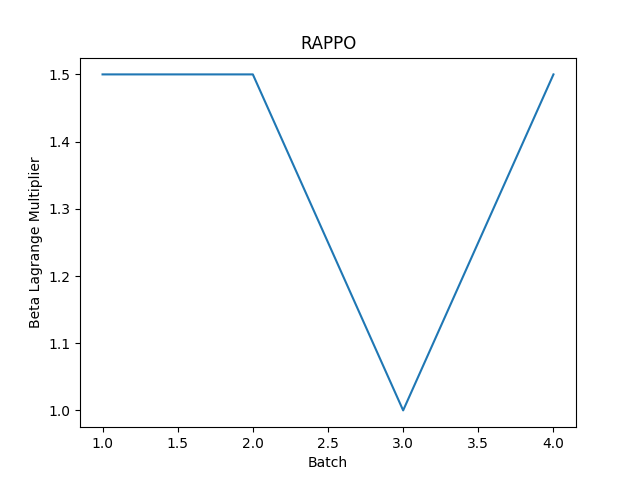
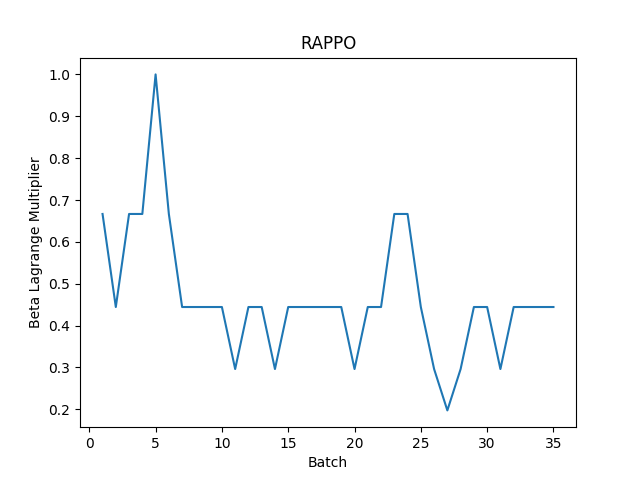
Redefined CVaR

diff --git a/src/policy.py b/src/policy.py
@@ -20,7 +20,7 @@ class Policy(object):
         """
         self.beta = 1.0  # dynamically adjusted D_KL loss multiplier
         self.eta = 50  # multiplier for D_KL-kl_targ hinge-squared loss
-        self.lamb = 1.0 # multiplier for risk penalty
+        self.lamb = 0.01 # multiplier for risk penalty
         self.alpha = alpha # size of tail
         self.kl_targ = kl_targ
         self.risk_targ = risk_targ
@@ -92,6 +92,7 @@ class Policy(object):
         self.means = tf.layers.dense(out, self.act_dim,
                                      kernel_initializer=tf.random_normal_initializer(
                                          stddev=np.sqrt(1 / hid3_size)), name="means")
+        self.Value_risk = tf.Variable(tf.random_normal([1],300,50), dtype=tf.float32, name= 'VaR') 
         # logvar_speed is used to 'fool' gradient descent into making faster updates
         # to log-variances. heuristic sets logvar_speed based on network size.
         logvar_speed = (10 * hid3_size) // 48
@@ -122,9 +123,14 @@ class Policy(object):
         if self.risk_option == 'VaR':
             self.risk = tf.contrib.distributions.percentile(self.disc_sum_rew, self.alpha)
         elif self.risk_option == 'CVaR':
-            cutoff = np.ceil(self.batch_size * (self.alpha/100))
-            self.risk = tf.reduce_mean(tf.nn.top_k(self.disc_sum_rew, cutoff)[0])
-            self.check2 = tf.nn.top_k(self.disc_sum_rew, cutoff)[0]
+            #cutoff = np.ceil(self.batch_size * (self.alpha/100))
+            perc = 1 - self.alpha/100 # Defined alpha wrong I had to redefine it, alpha not tail but everything before it
+            diff = tf.reshape((self.disc_sum_rew-self.Value_risk),[self.batch_size, 1])
+            ze = np.zeros((self.batch_size,1))
+            expety = tf.reduce_max(tf.concat([diff, ze], axis = 1), axis=1)
+            self.risk = (self.Value_risk + (1/(1-perc))*tf.reduce_mean(expety))[0]
+            #self.risk = tf.reduce_mean(tf.nn.top_k(self.disc_sum_rew, cutoff)[0])
+            #self.check2 = tf.nn.top_k(self.disc_sum_rew, cutoff)[0]
             #self.risk = -1*tf.reduce_min(self.disc_sum_rew)
 
     def _kl_entropy(self):
@@ -215,12 +221,12 @@ class Policy(object):
         for e in range(self.epochs):
             # TODO: need to improve data pipeline - re-feeding data every epoch
             self.sess.run(self.train_op, feed_dict)
-            loss, kl, entropy, risk_metric, check2 = self.sess.run([self.loss, self.kl, self.entropy, self.risk, self.check2], feed_dict)
+            loss, kl, entropy, risk_metric, VaR_param = self.sess.run([self.loss, self.kl, self.entropy, self.risk, self.Value_risk], feed_dict)
             # loss, kl, entropy = self.sess.run([self.loss, self.kl, self.entropy], feed_dict)
             if kl > self.kl_targ * 4:  # early stopping if D_KL diverges badly
                 break
         print('risk metric is', risk_metric)
-        print('top k values', check2)
+        print('VaR param is', VaR_param)
         # TODO: too many "magic numbers" in next 8 lines of code, need to clean up
         #print('risk_metric is', risk_metric)
         if kl > self.kl_targ * 2:  # servo beta to reach D_KL target

diff --git a/src/train.py b/src/train.py
@@ -555,7 +555,7 @@ if __name__ == "__main__":
                         default = 400)
     parser.add_argument('-b', '--batch_size', type=int,
                         help='Number of episodes per training batch',
-                        default=40)
+                        default=20)
     parser.add_argument('-m', '--hid1_mult', type=int,
                         help='Size of first hidden layer for value and policy NNs'
                              '(integer multiplier of observation dimension)',
